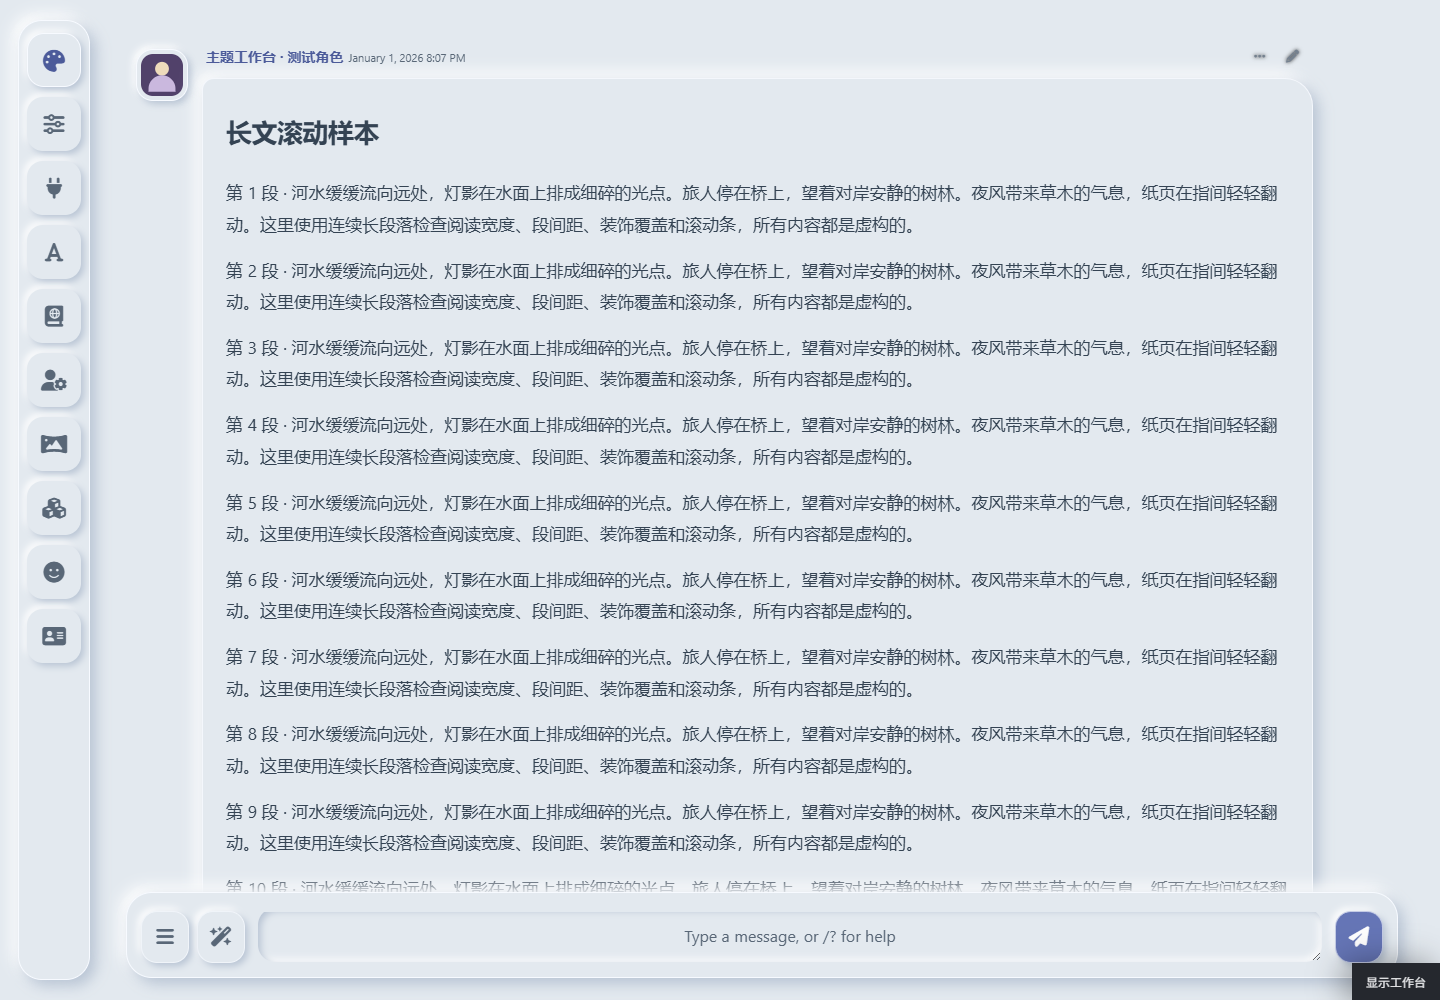
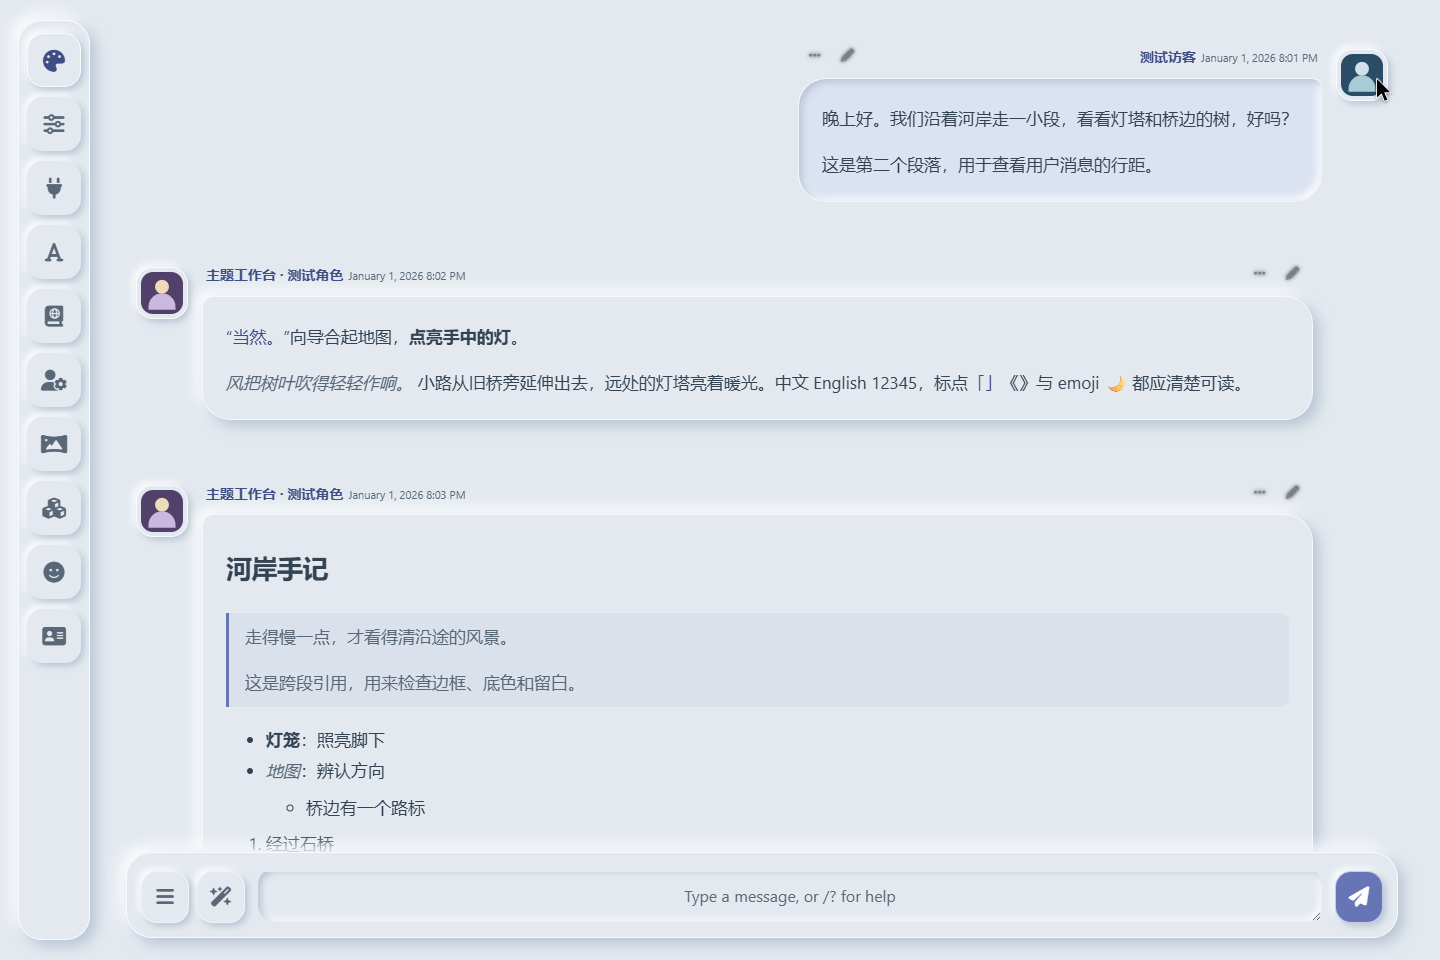
Fix sidebar overlays and strengthen light accent contrast

diff --git a/themes/theme.css b/themes/theme.css
@@ -1,4 +1,4 @@
-/* 云间 · Cloud Correspondence 1.0.2 | SillyTavern 1.19.0
+/* 云间 · Cloud Correspondence 1.0.3 | SillyTavern 1.19.0
    原创软气泡与石墨深色。无外链图片 / 字体，--cc-* 支持工作台微调。 */
 :root {
   --cc-theme: cloud-correspondence;
@@ -6,7 +6,7 @@
   --cc-accent: #6575b6; /* 浅色强调色 */
   --cc-ink: #344353; --cc-muted: #596777;
   --cc-light: #ffffff; --cc-shade: #b7c3d3; --cc-edge: #f7faff;
-  --cc-accent-ink: #4c5b9a; --cc-on-accent: #ffffff; --cc-user: #dbe2f1;
+  --cc-accent-ink: #3f4d85; --cc-on-accent: #ffffff; --cc-user: #dbe2f1;
   --cc-depth: 1; /* 凹凸强度 */
   --cc-radius: 28px; /* 气泡圆角 */
   --cc-font-size: 17px; /* 正文字号 */
@@ -34,7 +34,7 @@ body {
   background: var(--cc-base); color: var(--cc-ink); text-shadow: none;
 }
 #bg1, #bg_custom { opacity: 0; pointer-events: none; }
-#top-bar { background: transparent; box-shadow: none; border: 0; backdrop-filter: none; }
+#top-bar { background: transparent; box-shadow: none; border: 0; backdrop-filter: none; pointer-events: none; }
 * { scrollbar-color: var(--cc-shade) transparent; scrollbar-width: thin; }
 ::selection { background: color-mix(in srgb, var(--cc-accent) 28%, var(--cc-base)); }
 :where(button, input, select, textarea, summary, [tabindex]):focus-visible { outline: 2px solid var(--cc-accent-ink); outline-offset: 3px; }
@@ -130,7 +130,13 @@ body.hideChatAvatars #chat .mes .mes_block { grid-column: 1; }
 #rightSendForm #send_but:hover, #rightSendForm #mes_stop:hover { color: var(--cc-on-accent); filter: brightness(1.05); }
 #send_form .mes_stop { padding: 14px 0; text-align: center; }
 #send_form :is(.file_attached, #file_form) { max-width: 100%; color: var(--cc-muted); }
-#top-settings-holder { position: fixed; inset: 20px auto 20px 18px; margin: 0; width: 72px; height: calc(100dvh - 40px); display: flex; flex-direction: column; justify-content: flex-start; gap: 10px; padding: 12px 8px; border-radius: 24px; background: var(--cc-base); box-shadow: var(--cc-lift); border: 1px solid var(--cc-edge); }
+/* absolute + auto 不建立固定侧栏的堆叠上下文；底板、按钮与抽屉分别分层。
+   !important 仅解除宿主在其他面板打开时给整个 holder 设置的 4005 层级。 */
+#top-settings-holder { position: absolute; z-index: auto !important; inset: 20px auto 20px 18px; margin: 0; width: 72px; height: calc(100dvh - 40px); display: flex; flex-direction: column; justify-content: flex-start; gap: 10px; padding: 12px 8px; border-radius: 24px; background: transparent; box-shadow: none; border: 1px solid transparent; pointer-events: none; }
+#top-settings-holder::before { content: ""; position: absolute; inset: -1px; z-index: 31; border-radius: inherit; background: var(--cc-base); box-shadow: var(--cc-lift); border: 1px solid var(--cc-edge); pointer-events: none; }
+#top-settings-holder > .drawer > .drawer-toggle, #cc-open, #cc-mobile-menu { z-index: 32; pointer-events: auto; }
+#cc-open { position: relative; }
+body > .zoomed_avatar[forChar] { z-index: 33; }
 #top-settings-holder > .drawer { width: 54px; height: 54px; flex: 0 1 54px; min-height: 40px; }
 #top-settings-holder > .drawer > .drawer-toggle { width: 100%; height: 100%; display: flex; align-items: center; justify-content: center; border-radius: 16px; box-shadow: var(--cc-small); background: var(--cc-base); position: relative; }
 #top-settings-holder > .drawer > .drawer-toggle .drawer-icon { display: flex; align-items: center; justify-content: center; width: 100%; height: 100%; padding: 0; font-size: 21px; color: var(--cc-muted); opacity: 1; border-radius: inherit; }
@@ -139,7 +145,7 @@ body.hideChatAvatars #chat .mes .mes_block { grid-column: 1; }
 #top-settings-holder > .drawer > .drawer-toggle:active { box-shadow: var(--cc-inset); }
 #top-settings-holder > .drawer > .drawer-toggle:focus-within { outline: 2px solid var(--cc-accent-ink); outline-offset: 3px; }
 .drawer-content, #movingDivs > .drawer-content { background: var(--cc-base); color: var(--cc-ink); border: 1px solid var(--cc-edge); border-radius: 24px; padding: 22px; box-shadow: var(--cc-lift); backdrop-filter: none; text-shadow: none; }
-#top-settings-holder .drawer-content { position: fixed; top: 22px; left: auto; right: 22px; margin: 0; width: min(440px, calc(100vw - 130px)); min-width: 0; max-height: calc(100dvh - 44px); }
+#top-settings-holder .drawer-content { position: fixed; z-index: 3005; pointer-events: auto; top: 22px; left: auto; right: 22px; margin: 0; width: min(440px, calc(100vw - 130px)); min-width: 0; max-height: calc(100dvh - 44px); }
 #top-settings-holder :is(#user-settings-block, #AdvancedFormatting, #WorldInfo) { width: min(800px, calc(100vw - 130px)); }
 #top-settings-holder .drawer-content.openDrawer { overflow-y: auto; overflow-x: hidden; }
 body:not(.movingUI) #top-settings-holder .drawer-content.maximized { width: calc(100vw - 130px) !important; top: 22px !important; right: 22px !important; }
@@ -207,7 +213,7 @@ body:not(.movingUI) #top-settings-holder .drawer-content.maximized { width: calc
   html[data-cc-active]:not([data-cc-menu]) #top-settings-holder > .drawer:not(#cc-appearance-button):not(#rightNavHolder):not(#user-settings-button) { display: none; }
   html[data-cc-active] #top-settings-holder > .drawer { flex: 0 0 44px; width: 44px; }
   html[data-cc-active][data-cc-menu] #top-settings-holder { height: auto; min-height: 58px; flex-wrap: wrap; justify-content: flex-start; padding: 60px 10px 10px; gap: 10px; }
-  html[data-cc-active][data-cc-menu] #top-settings-holder::after { content: "全部功能"; position: absolute; top: 20px; right: 16px; font-size: 12px; color: var(--cc-muted); pointer-events: none; }
+  html[data-cc-active][data-cc-menu] #top-settings-holder::after { content: "全部功能"; position: absolute; z-index: 32; top: 20px; right: 16px; font-size: 12px; color: var(--cc-muted); pointer-events: none; }
   #sheld { inset: calc(78px + env(safe-area-inset-top)) 0 env(safe-area-inset-bottom) 0; width: 100%; height: calc(100dvh - 78px - env(safe-area-inset-top) - env(safe-area-inset-bottom)); max-height: none; margin: 0; min-height: 0; }
   #chat { padding: 14px 12px 18px; gap: var(--cc-gap); }
   #chat .mes { width: 100%; max-width: 100%; grid-template-columns: 40px minmax(0, 1fr); column-gap: 8px; padding-bottom: 26px; }

diff --git a/docs/validation.md b/docs/validation.md
@@ -1,3 +1,20 @@
+## 1.0.3 · 2026-10-13
+
+环境：SillyTavern 1.19.0 / 06bde939f，独立 8003 测试实例、19328 工作台与 Chromium；只使用虚构样本。
+
+- 修复前原生侧栏 z-index 3005，头像 29、Mewo 式浮动入口 3001，命中测试均落在侧栏。
+- 侧栏父级改为 absolute / auto，取消整栏堆叠上下文；底板 31、控件 32、原生头像 33、展开抽屉 3005；空白底板不拦截指针。
+- 真实原生头像跨过侧栏按钮时可见、可正常关闭；代表 Mewo 层级的 3001 临时入口跨过按钮可见且可点击。设置抽屉覆盖该入口，并可鼠标、键盘操作复选框。
+- 320、390、766px 手机收起 / 展开菜单与设置抽屉均可用；768、1000、1001、1280px 桌面入口可点击；844×390 横屏可滚动到所有入口。
+- 阅读宽度、十条原生样本无横向溢出、浅深色四类通知及关闭按钮继续通过 1.0.2 回归。
+- 修复前恢复点 af395c9338f8403d95112bcc61f97c5c，源码自动同步保留工作台覆盖。验证脚本与结果位于 本地 QA 记录。
+
+- 浅色强调文字更新：默认在浅色底 / 用户气泡上的对比度为 6.57 / 6.19；五套浅色预设实际页面计算值均超过 6。配色测试 4/4 通过，深色算法保持原样。
+- 最终版通过原生导入另存为「云间 · Cloud Correspondence 1.0.3 · 最终验证」；同名保护保留了前一轮侧栏验证主题。关闭工作台并刷新后，原生 CSS SHA-256 为 d0a5cd01e1cecd7fad7f238e98b06e5d47bf25c276a517af27c651a39a562b37，宽度 92%、字号比例 1、浅色模式保留。
+- 层级截图采用宿主真实头像窗口，并给 URL 头像测试样本补入相同的本地 fixture SVG；没有使用私人头像。
+
+边界：浮动入口使用相同 CSS 层级的临时探针，没有安装或修改完整 Mewo 插件；未声称覆盖所有第三方浮层。手机测试为浏览器视口，非实体手机键盘。
+
 # 1.0.2 验证范围
 
 2026-10-13，SillyTavern 1.19.0 / `06bde939f`，Chromium，独立数据实例与虚构测试对话。

diff --git a/docs/discord-post.md b/docs/discord-post.md
@@ -1,0 +1,23 @@
+# 云间 · 让酒馆界面柔和一点 ☁
+
+做了一套偏安静的新拟物美化「云间 / Cloud Correspondence」，想让长时间看对话时舒服一点。
+
+- 浅色软气泡 / 石墨深色，也可以跟随系统。
+- 十套配色，底色、强调色、字号、圆角和凹凸程度都能调。
+- 桌面侧边菜单，手机用「菜单 / 收起」展开完整功能。
+- 页面宽度会跟着调整正文阅读宽度。
+
+这次 1.0.3 修好了左栏挡住悬浮入口和头像大图的问题，也把浅色模式的小字与选中态加深了。此前的通知图标平铺问题也已修复。
+
+**安装分两步：**在酒馆「扩展 → 安装扩展」粘贴下面的仓库地址；再下载 Release 里的主题 JSON，在「用户设置 → UI 主题」导入。
+
+扩展：https://github.com/demilich1117/cloud-correspondence
+
+主题与视频：https://github.com/demilich1117/cloud-correspondence/releases/tag/v1.0.3
+
+已有用户：更新扩展后，还要更新主题 CSS / JSON。想保留自己的页面宽度等设置，可以整段替换仓库里的 `themes/theme.css`，再保存当前主题。
+
+顺便推荐一下制作它用的 **酒馆主题工作台**：在真实酒馆里拾取部件、直接微调，或标点写意见，和 Agent 一起把主题做下去。
+https://github.com/demilich1117/tavern-theme-studio
+
+展示内容都是虚构测试样本。实测 SillyTavern 1.19.0；其他版本或扩展组合欢迎带截图反馈。

diff --git a/docs/showcase.md b/docs/showcase.md
@@ -1,0 +1,25 @@
+# 云间 1.0.3 · 实际效果
+
+截图与短视频来自独立 SillyTavern 1.19.0 的虚构测试对话，使用真实消息、菜单与外观扩展。手机画面为 390×844 浏览器视口。
+
+## 浅色阅读
+
+柔软气泡与加深的强调文字；用户回复靠右，角色正文随原生页面宽度变化。
+
+![浅色软气泡](screenshots/desktop.png)
+
+## 深色与调色
+
+浅深色分别记忆配色，面板里可以继续调整字号、圆角和凹凸强度。
+
+![石墨深色与外观设置](screenshots/dark-palette.png)
+
+## 手机菜单
+
+保留常用入口，点击「菜单」展开全部功能。
+
+![手机阅读与菜单入口](screenshots/mobile.png)
+
+[观看或下载短视频](https://github.com/demilich1117/cloud-correspondence/releases/download/v1.0.3/cloud-correspondence-demo.mp4) · [Discord 发帖文字](discord-post.md)
+
+想做自己的版本，可用 [酒馆主题工作台](https://github.com/demilich1117/tavern-theme-studio) 继续拾取和微调。工作台的 [真实演示](https://github.com/demilich1117/tavern-theme-studio/blob/master/docs/showcase.md) 使用同一套主题，便于对照整个制作流程。

diff --git a/CHANGELOG.md b/CHANGELOG.md
@@ -1,5 +1,11 @@
 # 更新记录
 
+## 1.0.3 — 2026-10-13
+
+- 修复左侧菜单底板覆盖悬浮入口及原生头像大图；展开抽屉保留独立层级。
+- 补充真实酒馆展示图、短视频和 Discord 文案。
+- 浅色强调文字与选中态更清楚，五套浅色预设在两类气泡背景上的强调文字对比度达到 6；深色算法不变。升级请更新扩展，并同时更新单独保存的主题 CSS。
+
 ## 1.0.2 — 2026-10-13
 
 - 修复 Toastr 通知背景图标平铺。
